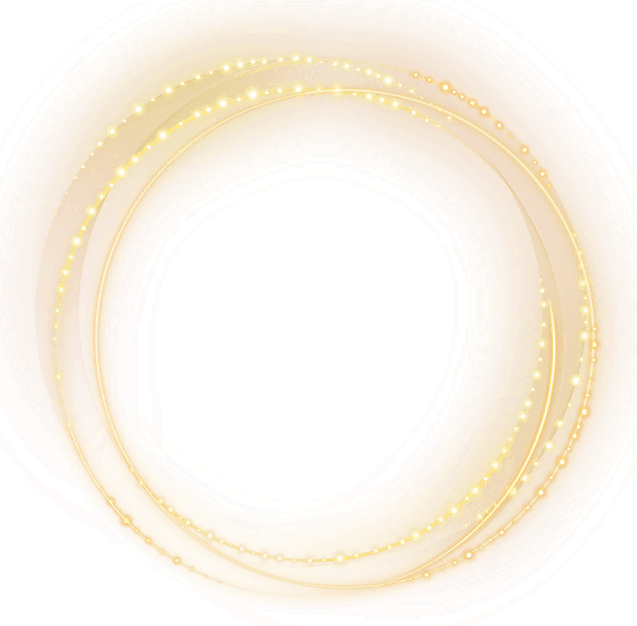
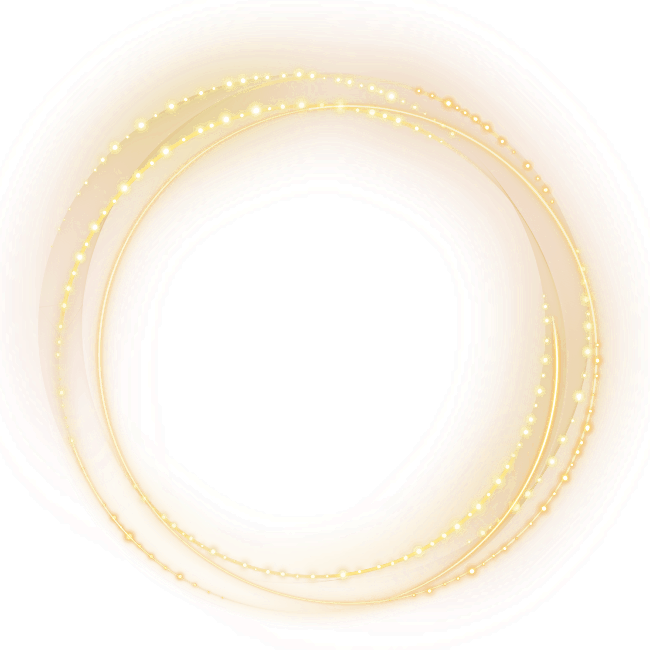
css updated

diff --git a/assets/css/theme.css b/assets/css/theme.css
@@ -1010,8 +1010,8 @@ textarea:focus {
   position: relative;
   left: 0;
   width: 80%;
-  height: 115%;
-  margin-top: -15%;
+  height: 112%;
+  margin-top: -12%;
 }
 .section.section--shopinfo .section_content .content-wrapper .header .header--number .circle--number figure {
   height: 100%;
@@ -1216,10 +1216,96 @@ textarea:focus {
   -moz-box-direction: normal;
   -ms-flex-direction: column;
   flex-direction: column;
-  min-height: 100vh;
-  background: url(../img/bg7.jpg) no-repeat;
+  color: #FFFFFF;
+  background: url(../img/bg6.jpg) no-repeat;
   background-size: cover;
-  color: #000000;
+  padding: 80px 40px 40px;
+}
+.section.section--industry .section__title h2 {
+  font-size: 40px;
+  line-height: 1.3em;
+  font-weight: bold;
+  margin-bottom: 4vh;
+  text-align: center;
+}
+@media only screen and (min-width: 768px) {
+  .section.section--industry .section__title h2 {
+    font-size: 3.5vw;
+  }
+}
+.section.section--industry .section__content {
+  font-size: 3.5vw;
+}
+.section.section--industry .section__content .industry-list {
+  display: -webkit-box;
+  display: -moz-box;
+  display: -ms-flexbox;
+  display: -webkit-flex;
+  display: flex;
+  -webkit-box-pack: flex-start;
+  -webkit-justify-content: flex-start;
+  -ms-flex-pack: flex-start;
+  -moz-box-pack: flex-start;
+  justify-content: flex-start;
+  -webkit-box-pack: start;
+  list-style: none;
+}
+@media only screen and (max-width: 768px) {
+  .section.section--industry .section__content .industry-list {
+    -webkit-box-orient: vertical;
+    -webkit-box-direction: normal;
+    -webkit-flex-direction: column;
+    -moz-box-orient: vertical;
+    -moz-box-direction: normal;
+    -ms-flex-direction: column;
+    flex-direction: column;
+  }
+}
+.section.section--industry .section__content .industry-list .item {
+  display: -webkit-box;
+  display: -moz-box;
+  display: -ms-flexbox;
+  display: -webkit-flex;
+  display: flex;
+  -webkit-box-align: center;
+  -webkit-flex-align: center;
+  -ms-flex-align: center;
+  -webkit-align-items: center;
+  align-items: center;
+  -webkit-box-pack: center;
+  -webkit-justify-content: center;
+  -ms-flex-pack: center;
+  -moz-box-pack: center;
+  justify-content: center;
+  background: url(../img/circle.png) center center no-repeat;
+  background-size: 80vw;
+  text-align: center;
+  width: 100%;
+  height: 80vw;
+  padding: 50px;
+  position: relative;
+}
+@media only screen and (min-width: 768px) {
+  .section.section--industry .section__content .industry-list .item {
+    background-size: 30vw;
+    width: 33.33%;
+    height: 30vw;
+  }
+}
+.section.section--industry .section__content .industry-list .item figure {
+  position: absolute;
+  right: 5%;
+  top: 40%;
+  transform: translateY(-50%);
+}
+.section.section--industry .section__content .industry-list .item p {
+  font-size: 10.4vw;
+  font-weight: bold;
+}
+@media only screen and (min-width: 768px) {
+  .section.section--industry .section__content .industry-list .item p {
+    font-size: 4.8vw;
+  }
 }
 .section.section--overview {
   display: -webkit-box;

diff --git a/assets/scss/_common.scss b/assets/scss/_common.scss
@@ -565,8 +565,8 @@
 							position: relative;
 							left: 0;
 							width: 80%;
-							height: 115%;
-							margin-top: -15%;
+							height: 112%;
+							margin-top: -12%;
 							// background: url(../img/circle.png) no-repeat;
 							// background-size: cover;
 
@@ -741,13 +741,79 @@
 		}
 	}
 
+	
 	&.section--industry {
 		@include display-flex;
 		@include flex-direction-column;
-		min-height: 100vh;
-		background: url(../img/bg7.jpg) no-repeat;
+		color: $color-section-title;
+		background: url(../img/bg6.jpg) no-repeat;
 		background-size: cover;
-		color: $color-section-content;
+		padding: 80px 40px 40px;
+
+		.section__title {
+			h2 {
+				font-size: 40px;
+				line-height: 1.3em;
+				font-weight: bold;
+				margin-bottom: 4vh;
+				text-align: center;
+
+				@media only screen and (min-width: 768px) {
+					font-size: 3.5vw;
+				}
+			}
+		}
+
+		.section__content {
+			font-size: 3.5vw;
+
+			.industry-list {
+				@include display-flex;
+				@include justify-content-flex-start;
+				list-style: none;
+
+				@media only screen and (max-width: 768px) {
+					@include flex-direction-column;
+				}
+				
+				.item {
+					@include display-flex;
+					@include align-items-center;
+					@include justify-content-center;
+					background: url(../img/circle.png) center center no-repeat;
+					background-size: 80vw;
+					text-align: center;
+					width: 100%;
+					height: 80vw;
+					padding: 50px;
+					position: relative;
+
+					@media only screen and (min-width: 768px) {
+						background-size: 30vw;
+						width: 33.33%;
+						height: 30vw;
+					}
+
+					figure {
+						position: absolute;
+						right: 5%;
+						top: 40%;
+						transform: translateY(-50%);
+					}
+
+					p {
+						font-size: 10.4vw;
+						font-weight: bold;
+
+						@media only screen and (min-width: 768px) {
+							font-size: 4.8vw;
+						}
+					}
+				}
+
+			}
+
+		}
 	}
 
 	&.section--overview {

diff --git a/index.html b/index.html
@@ -366,28 +366,28 @@
         </section>
 
         <section class="section section--industry">
-            <div class="section_title">
+            <div class="section__title">
                 <h2>業界オンリーワンのヘッドスパで</h2>
             </div>
-            <div class="section_content">
-                <ul class="circle-list">
+            <div class="section__content">
+                <ul class="industry-list">
                     <li class="item">
-                        <figure class="item__circle">
-                            <img class="img" src="./assets/img/circle.png">
+                        <figure>
+                            <img src="./assets/img/light.png" alg="" />
                         </figure>
-                        <p class="caption">高い需要</p>
+                        <p>高い需要</p>
                     </li>
                     <li class="item">
-                        <figure class="item__circle">
-                            <img class="img" src="./assets/img/circle.png">
+                        <figure>
+                            <img src="./assets/img/light.png" alg="" />
                         </figure>
-                        <p class="caption">将来性</p>
+                        <p>将来性</p>
                     </li>
                     <li class="item">
-                        <figure class="item__circle">
-                            <img class="img" src="./assets/img/circle.png">
+                        <figure>
+                            <img src="./assets/img/light.png" alg="" />
                         </figure>
-                        <p class="caption">安定性</p>
+                        <p>安定性</p>
                     </li>
                 </ul>
             </div>
